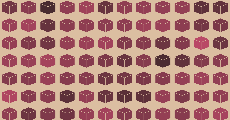
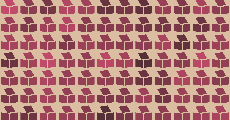
shape deforming done

diff --git a/draw_one_frame.js b/draw_one_frame.js
@@ -61,20 +61,37 @@ function draw_one_frame(cur_frac) {
 		noiseColor = getNoiseValue(spacingSize*accross,spacingSize*down, 0.8, "noiseColor",0,1, 200 );
 		noiseyLerp = lerpColor(mainColor,backupColor,noiseColor);  // https://p5js.org/reference/#/p5/lerpColor
 		fill(noiseyLerp);
+
 		push();
 		rectMode(CENTER);
-		translate(spacingSize*accross,spacingSize*down*1);
-		// ellipse(spacingSize*accross,spacingSize*down ,orbSize)
+		let top_rotQuad = map(cur_frac*2, 0,1, -22.5, 0); 
+		let top_rotSquare = map(cur_frac*2, 1,2, 0,-22.5);
+		let top_deformQuad = map(cur_frac*2,0,1,45,0);
+		let top_deformSquare = map(cur_frac*2,1,2,0,45);
+		let top_scaleQuad = map(cur_frac*2,0,1,0.5,1);
+		let top_scaleSquare = map(cur_frac*2,1,2,1,0.5);
+		let top_posQuad = map(cur_frac*2,0,1,0,orbSize/6);
+		let top_posQSquare = map(cur_frac*2,1,2,orbSize/6,0);
+
 		
-			rotate(-22.5);
-			shearX(45);
-			scale(1,sqrt(0.5));
-	
+		// ellipse(spacingSize*accross,spacingSize*down ,orbSize)
+		if(cur_frac<=0.5){
+			translate(spacingSize*accross,spacingSize*down-top_posQuad);
+			rotate(top_rotQuad);
+			shearX(top_deformQuad);
+			scale(1,sqrt(top_scaleQuad));
+		} else{
+			translate(spacingSize*accross,spacingSize*down-top_posQSquare);
+			rotate(top_rotSquare);
+			shearX(top_deformSquare);
+			scale(1,sqrt(top_scaleSquare));
+		}
+			
 		square(0,0,quadPosSize);
 
 		// for(let i=0; i<topQuad_posX.length-1; i++) {
-		// 	let cur_posX = map(cur_frac, 0, 1, topQuad_posX[i], topQuad_posX[i+1]);
-		// 	let cur_posY = map(cur_frac, 0, 1, topQuad_posY[i], topQuad_posY[i+1]);
+		// 	let top_rotQuad = map(cur_frac, 0, 1, topQuad_posX[i], topQuad_posX[i+1]);
+		// 	let top_rotSquare = map(cur_frac, 0, 1, topQuad_posY[i], topQuad_posY[i+1]);
 		// 	quad();
 		//   }
 
@@ -87,11 +104,22 @@ function draw_one_frame(cur_frac) {
 
 		push();
 		rectMode(CENTER);
-		translate(spacingSize*accross-quadPosSize*0.47,spacingSize*down+orbSize*0.52);
+		let left_deformQuad = map(cur_frac*2,0,1,22.5,0);
+		let left_deformSquare = map(cur_frac*2,1,2,0,22.5);
+		let left_scaleQuad = map(cur_frac*2,0,1,0.9,1);
+		let left_scaleSquare = map(cur_frac*2,1,2,1,0.9);
+		
 
-		// rotate(-22.5);
-			shearY(22.5);
-			scale(0.9,1);
+		if(cur_frac<=0.5){
+			translate(spacingSize*accross-quadPosSize*0.47-top_posQuad/2,spacingSize*down+orbSize*0.52+top_posQuad);
+			// rotate(-22.5);
+			shearY(left_deformQuad);
+			scale(left_scaleQuad,1);
+		} else{
+			translate(spacingSize*accross-quadPosSize*0.47-top_posQSquare/2,spacingSize*down+orbSize*0.52+top_posQSquare);
+			shearY(left_deformSquare);
+			scale(left_scaleSquare,1);
+		}
 	
 		square(0,0,quadPosSize);
 
@@ -104,10 +132,22 @@ function draw_one_frame(cur_frac) {
 
 		push();
 		rectMode(CENTER);
-		translate(spacingSize*accross+quadPosSize*0.47,spacingSize*down+orbSize*0.52);
+		let right_deformQuad = map(cur_frac*2,0,1,-22.5,0);
+		let right_deformSquare = map(cur_frac*2,1,2,0,-22.5);
+		let right_scaleQuad = map(cur_frac*2,0,1,0.9,1);
+		let right_scaleSquare = map(cur_frac*2,1,2,1,0.9);
+		
 
-		shearY(-22.5);
-		scale(0.9,1);
+		if(cur_frac<=0.5){
+			translate(spacingSize*accross+quadPosSize*0.47+top_posQuad/2,spacingSize*down+orbSize*0.52+top_posQuad);
+			// rotate(-22.5);
+			shearY(right_deformQuad);
+			scale(right_scaleQuad,1);
+		} else{
+			translate(spacingSize*accross+quadPosSize*0.47+top_posQSquare/2,spacingSize*down+orbSize*0.52+top_posQSquare);
+			shearY(right_deformSquare);
+			scale(right_scaleSquare,1);
+		}
 	
 		square(0,0,quadPosSize);
 

diff --git a/README.md b/README.md
@@ -1,3 +1,3 @@
 [![Open in Visual Studio Code](https://classroom.github.com/assets/open-in-vscode-c66648af7eb3fe8bc4f294546bfd86ef473780cde1dea487d3c4ff354943c9ae.svg)](https://classroom.github.com/online_ide?assignment_repo_id=10300841&assignment_repo_type=AssignmentRepo)
 ### 2023 MDDN342 Project 1: Parameterised Space
-Replace the 'quad' with 'square', because I've found the 'shear' function is quite useful in twising a square shape, less codes than before, it's a bit difficult to find the proper positions for those shapes though.
+Now the shapes can change between 'quad' and 'square' along with 'cur_frac', it's kind of what I want at the beginning. The problem is that they are changing too fast, I'll make them slow down.
